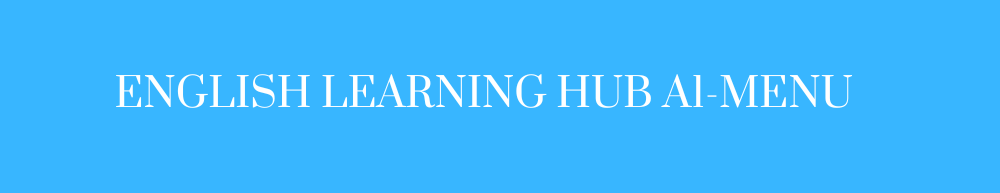
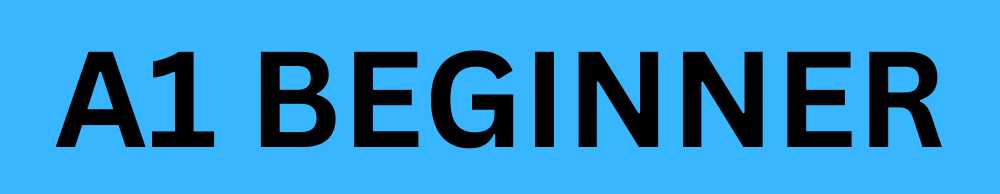
A1 MENU ADD

Changed region(s): [[0.031, 0.2487, 0.961, 0.7772]]

diff --git a/CEFR-Levels/A1-Beginner/E0001-English-Alphabet.md b/CEFR-Levels/A1-Beginner/E0001-English-Alphabet.md
@@ -1,3 +1,5 @@
+![A1](/A1-Images/English%20Learning%20Hub%20A1-Menu.png)
+
 # English and Effective Learning Strategies
 
 **what's English ?**:
